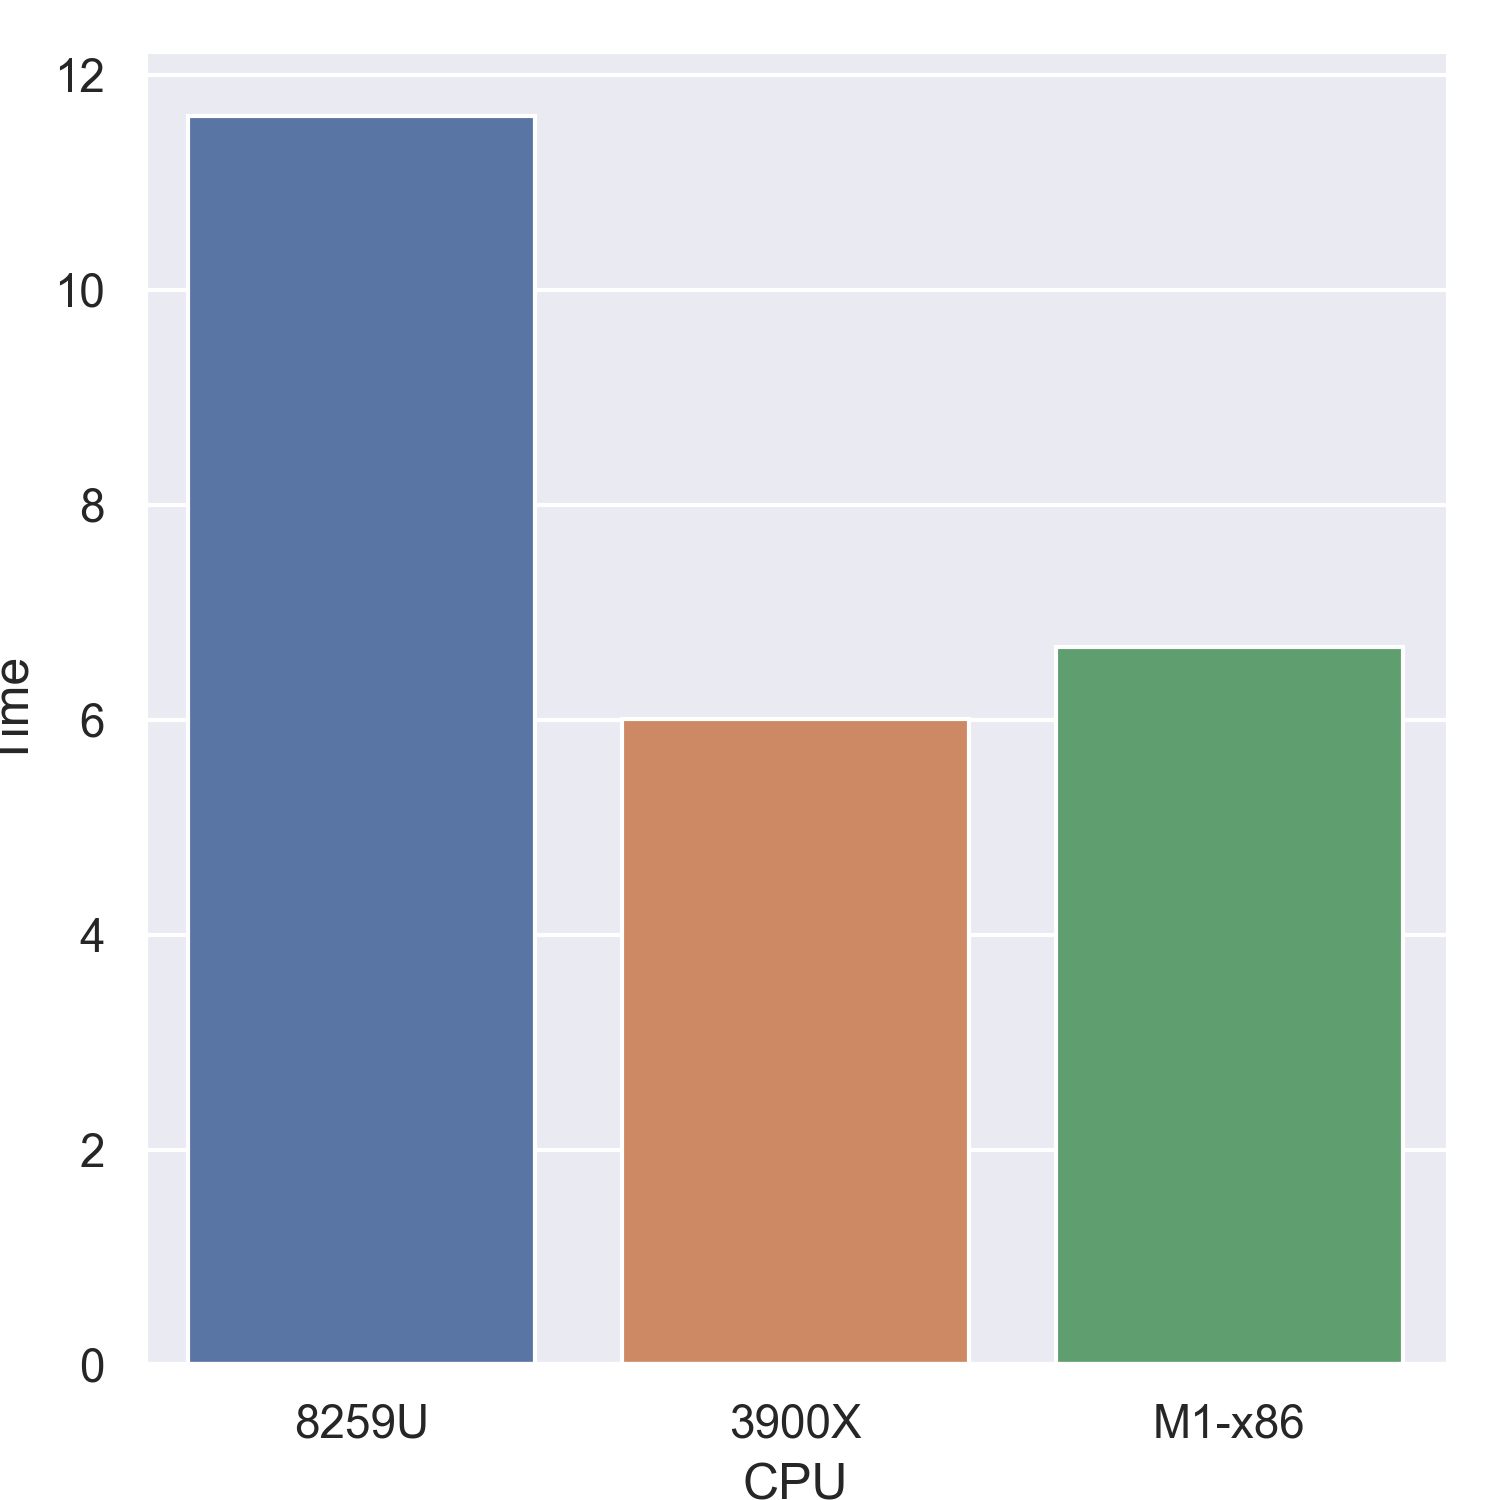
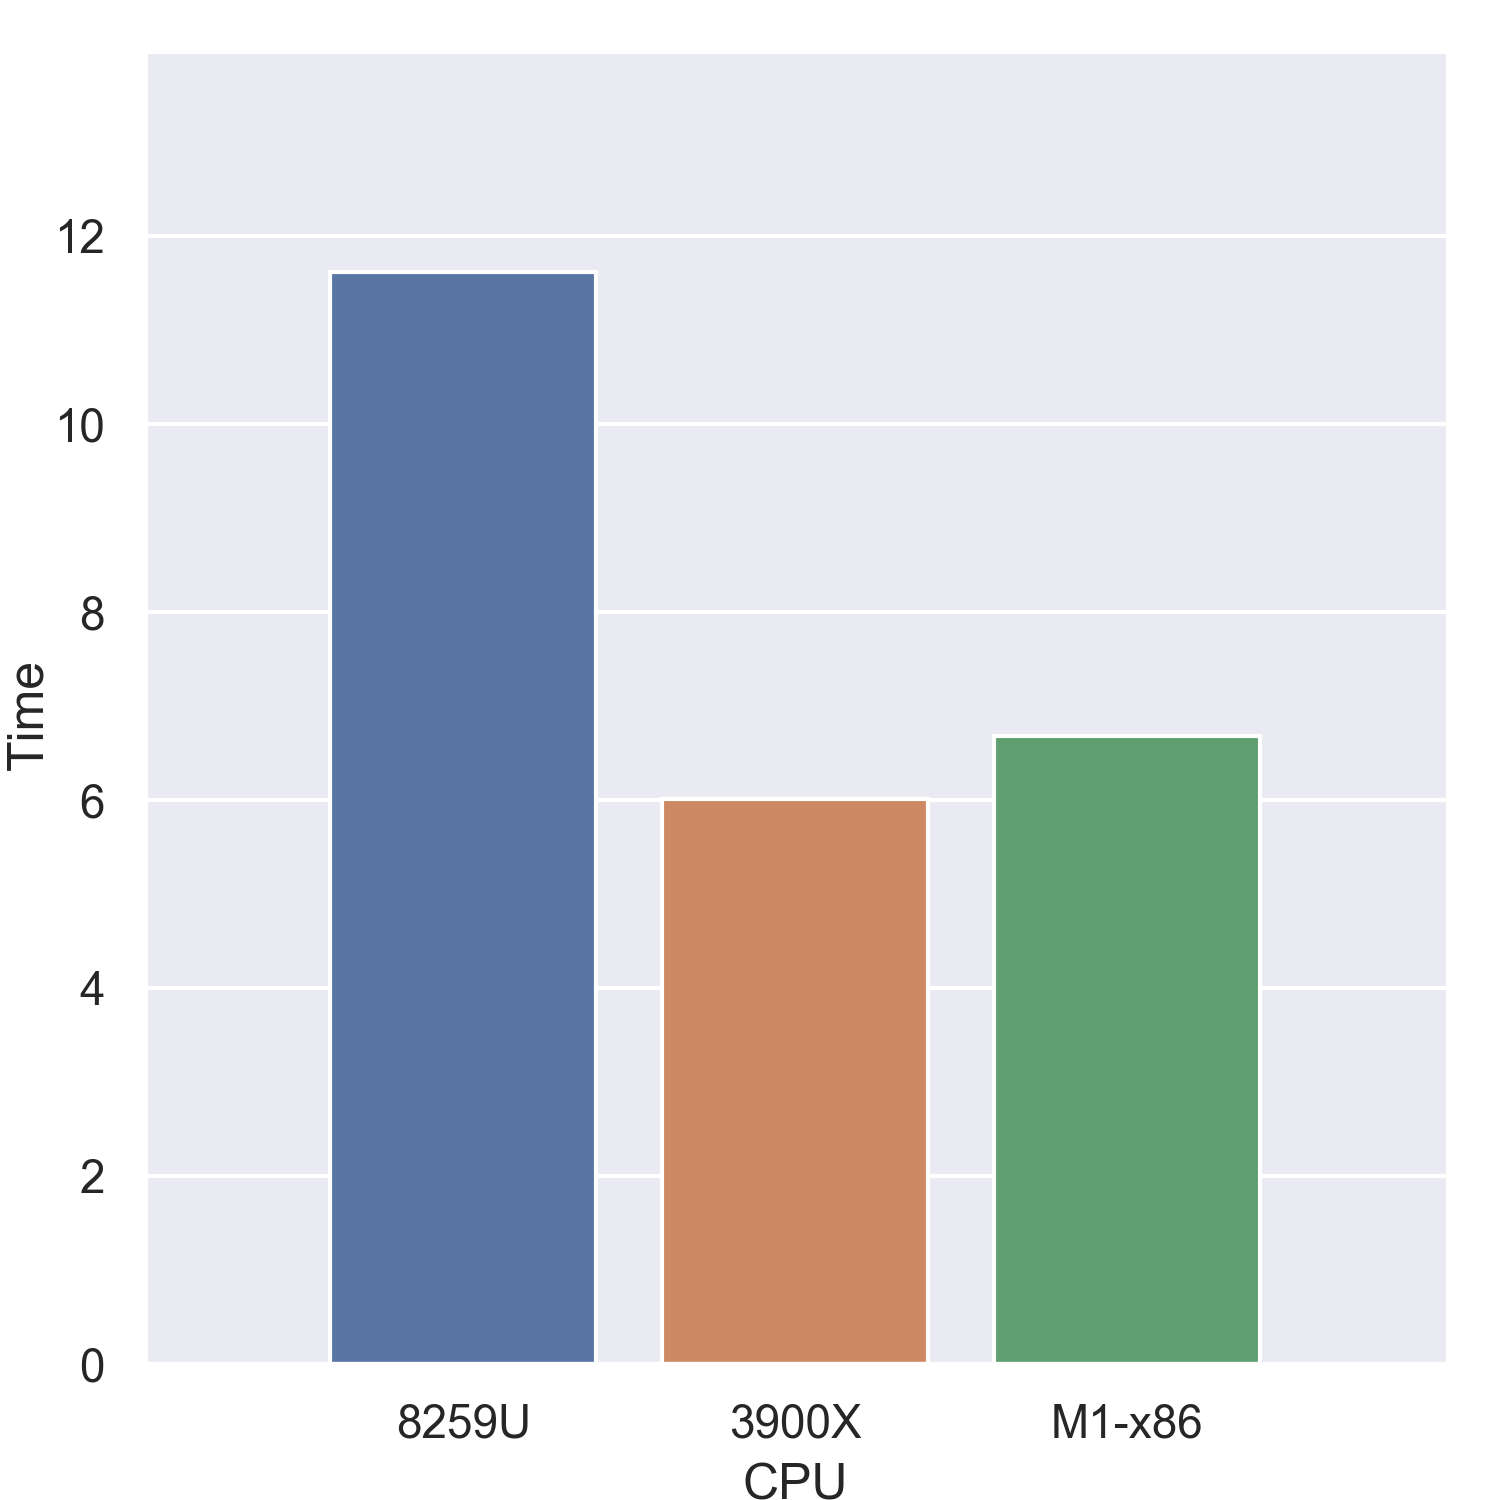
Plot margins

diff --git a/nibabel_graph.py b/nibabel_graph.py
@@ -7,13 +7,12 @@
 import pandas as pd
 import seaborn as sns
 import matplotlib.pyplot as plt
+
 #MacBook i5-8259U
 #Ubuntu i7-8700K
 #Ubuntu 3900X
 df = pd.DataFrame({'CPU': ['8259U','3900X','M1-x86'],
 					'Time': [11.614, 6.010, 6.68]})
-
-
 sns.set()
-sns.catplot(x="CPU", y="Time", kind="bar", data=df)
+ax = sns.catplot(x="CPU", y="Time", kind="bar", data=df)
 plt.savefig('nibabel.png', dpi=300)
